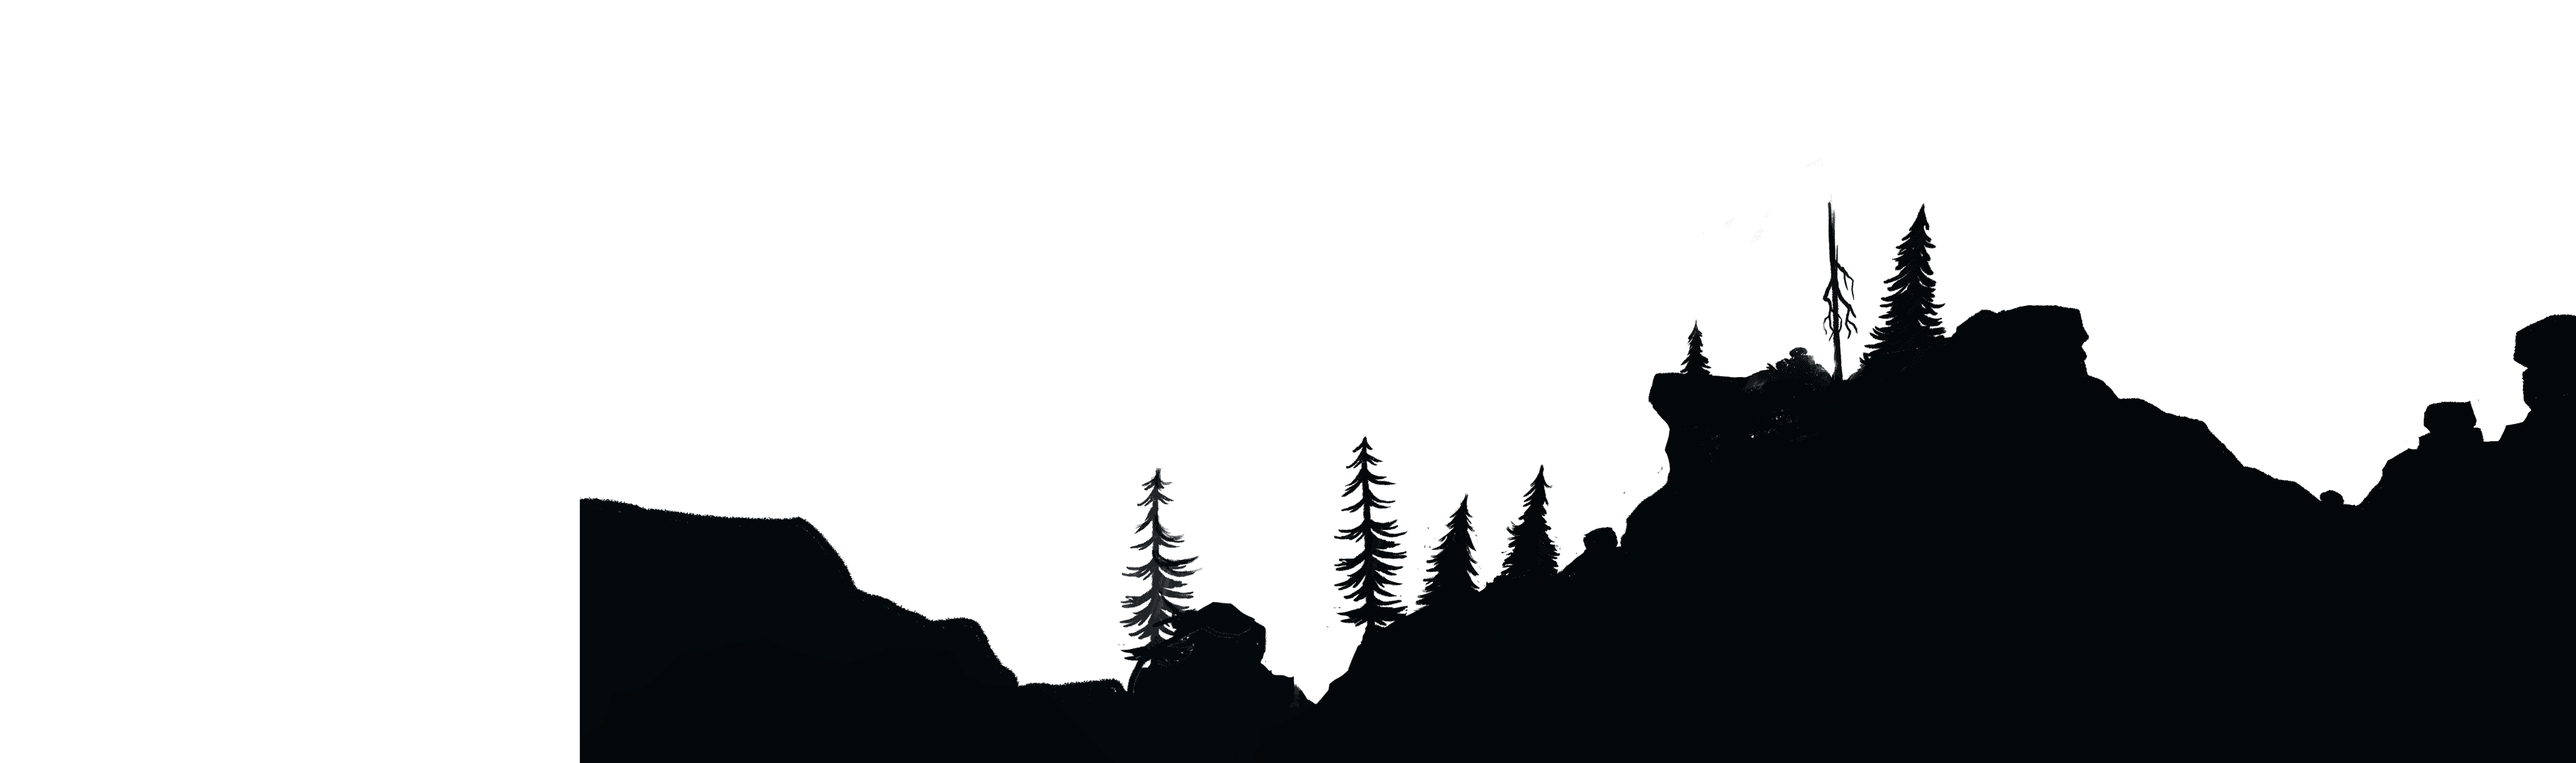
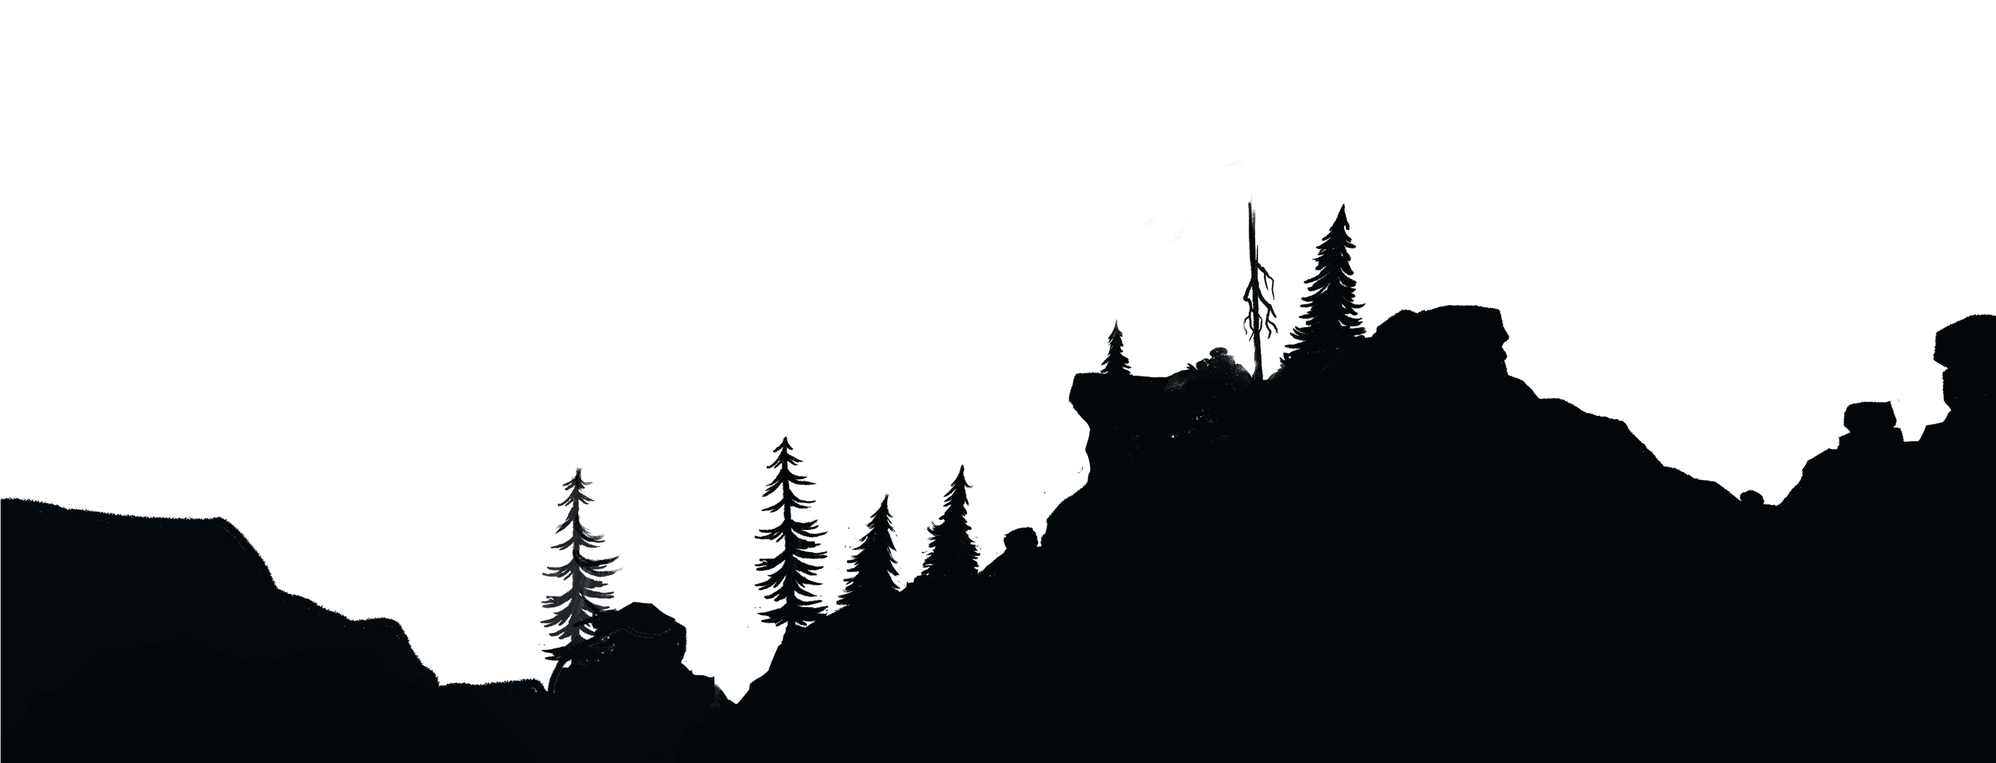
Fixed: Everything

Changed region(s): [[0.0, 0.2775, 0.9908, 1.0]]

diff --git a/src/components/Parallax.vue b/src/components/Parallax.vue
@@ -1,15 +1,18 @@
 <script setup>
-import { ref } from 'vue'
+
+const rotateDegree = [5, -8, -2]
 
 window.addEventListener('scroll', () => {
     const parallax = document.querySelectorAll('.parallax');
+    const newspapers = document.querySelectorAll('.newspaper');
     const speed = 0.5;
     const background = document.getElementById('background');
     const plane = document.getElementById('plane');
     const cooper = document.getElementById('cooper');
     const headline1 = document.getElementById('headline1');
-    const headline2 = document.getElementById('headline2');
-    const test = document.getElementById('test');
+    
+    const news = document.getElementById('news');
+    
     
     background.style.transform = `translateY(-${window.pageYOffset * (speed/3)}px)`;
     headline1.style.transform = `translateY(${window.pageYOffset * 0.1}px)`;
@@ -24,58 +27,79 @@ window.addEventListener('scroll', () => {
         layer.style.transform = `translateY(${distance}px)`;
     })
 
-    
-    if(window.pageYOffset > 350){
-        test.style.height = `${window.pageYOffset - 350}px`;
-        headline2.style.transform = `translateX(-${window.pageYOffset * 0.9}px)`;
-    }else{
-        test.style.height = `0px`;
-    }
+    newspapers.forEach( (newspaper, i) => {
+        const degree = rotateDegree[i] + window.pageYOffset * 0.012;
+        newspaper.style.transform = `rotate(${degree}deg)`;
+    })
 
-    if(window.pageYOffset > 490){
-            headline2.style.bottom = '70px';
-        }else{
-            headline2.style.bottom = 'unset';
-        }
-    
-
-    // test.style.height = `${window.pageYOffset * speed * (6 *-0.2)}px`;
-    // console.log(window.pageYOffset * speed * (6 *-0.2));
+    news.style.marginTop = `calc(${window.pageYOffset * speed * (10 *-0.3)}px + 100px)`;
 })
 </script>
 
 <template>
-    <section class="parallax-hero">
-        <img id="background" ref="background" src="../assets/img/parallax/background.png" alt="">
-        <img id="cooper" src="../assets/img/parallax/cooper.png" alt="">
-        <img id="plane" src="../assets/img/parallax/plane.png" alt="">
-        <h1 id="headline1">Das perfekte Verbrechen</h1>
+    <div class="border" style="overflow: unset;">
+        <section class="parallax-hero">
+            <img id="background" ref="background" src="../assets/img/parallax/background.png" alt="">
+            <img id="cooper" src="../assets/img/parallax/cooper.png" alt="">
+            <img id="plane" src="../assets/img/parallax/plane.png" alt="">
+            <h1 id="headline1">Das perfekte Verbrechen</h1>
 
-        <img src="../assets/img/parallax/parallax/parallax3.png" style="z-index: 2" class="parallax">
-        <img src="../assets/img/parallax/parallax/parallax4.png" style="z-index: 3" class="parallax">
-        <img src="../assets/img/parallax/parallax/parallax5.png" style="z-index: 5" class="parallax">
-        <img src="../assets/img/parallax/parallax/parallax6.png" style="z-index: 6" class="parallax">
-        <div style="z-index: 6" class="test paralax" id="test">
-            <h1 id="headline2">Der unerklärliche Fall des D.B. Cooper</h1>
-        </div>
-    </section>
-    <!-- <div style="z-index: 6" class="paralax overflow">
-            <h1 id="headline2">Der unerklärliche Fall des D.B. Cooper</h1>
-    </div> -->
-   
-    <!-- <section id="helper" style="z-index: 10; position: relative; top: 250px;">
-        <div class="helper">
-           
-        </div>
-    </section> -->
+            <img src="../assets/img/parallax/parallax/parallax3.png" style="z-index: 2" class="parallax">
+            <img src="../assets/img/parallax/parallax/parallax4.png" style="z-index: 3" class="parallax">
+            <img src="../assets/img/parallax/parallax/parallax5.png" style="z-index: 5" class="parallax">
+            <img src="../assets/img/parallax/parallax/parallax6.png" style="z-index: 10; bottom: -20vh" class="parallax">
+            
+        </section>
+    </div>
+        <section id="news" style="position: relative; z-index: 11;">
+            <div style="z-index: 3" class="parallax" id="test">
+                <h1 id="headline2">Der unerklärliche Fall des D.B. Cooper</h1>
+            </div>
+            <div class="newspapers">
+                <img src="../assets/img/newspapers/newspaper1.jpeg" style="left:0px; transform: rotate(8deg);" alt="" class="newspaper">
+                <img src="../assets/img/newspapers/newspaper2.webp" style="right:-40%; transform: rotate(-12deg);" alt="" class="newspaper">
+                <img src="../assets/img/newspapers/newspaper3.jpeg" style="left:0px; transform: rotate(-3deg);" alt="" class="newspaper">
+            </div>
+            <p>
+                Am 24. November 1971 entführte ein Mann namens D.B. Cooper ein Flugzeug von Portland nach Seattle und forderte 200.000 Dollar Lösegeld. Nachdem das Geld übergeben worden war, sprang er aus dem Flugzeug und wurde nie wieder gesehen. 
+            </p>
+            <button class="primary" @click="$emit('isVisible', true)">Entdecke jetzt seine Geschichte</button>
+        </section>
 </template>
 
 <style lang="scss">
+
+#news{
+    background: #030608;
+    padding-top: 150px;
+    padding-bottom: 150px;
+}
+
+.newspapers{
+        max-width: 1200px;
+        margin: 0 auto;
+        padding-bottom: 100px;
+        // padding-top:400px;
+        background: #030608;
+    
+    .newspaper{
+       margin-top: -80px;
+        position: relative;
+        width: 60%;
+        right: 0px;
+        border-radius: 8px;
+        box-shadow: 5px 5px 50px black;
+    }
+}
+.border{
+    height: 100vh;
+}
 .parallax-hero{
     position: relative;
     width: 100vw;
-    height: 100vh;
+    height: 120vh;
     overflow: hidden;
+    background-attachment: fixed;
 
     #headline1{
         position: absolute;
@@ -98,7 +122,7 @@ window.addEventListener('scroll', () => {
         }
         &#cooper{
             right: 20vw;
-            top: 40vh;
+            top: 10vh;
             z-index: 6;
             transform: scale(0.5);
         }
@@ -109,40 +133,55 @@ window.addEventListener('scroll', () => {
         &.parallax{
             width: 100vw;
             height: 100vh;
-            bottom: -25vh;
+            bottom: -10vh;
+            transform-origin: bottom right;
         }
     
     }
 
-    .test{
-        background-color: #030608;
-        height: 0px;
-        width: 100%;
-        position: absolute;
-        bottom: 0px;
-        z-index: 9;
-        overflow: hidden;
+}
 
-        h1{
-            position: absolute;
-            color: $font-color;
-            font-size: calc(100vh*0.07);
-            font-weight: 700;
-            line-height: 80%;
-            right: -700px;
+#headline2{ 
+        padding-top: 40px;
+        color: $font-color;
+        font-size: calc(100vh*0.07);
+        font-weight: 700;
+        line-height: 80%;
+        text-align: center;
+            //right: -700px;
             // top: 10vh;
         }
-    }
+
+// .overflow{
     
+//     //min-height: 140vh;
+//     position: relative;
+
+
+//     .dark-bg{
+//         padding-top: 250px;
+//         background: #030608;
+//         padding-bottom: 200px;
+//     }
+//     #headline2{ 
+//         padding-top: 40px;
+//         color: $font-color;
+//         font-size: calc(100vh*0.07);
+//         font-weight: 700;
+//         line-height: 80%;
+//         text-align: center;
+//             //right: -700px;
+//             // top: 10vh;
+//         }
+// }
+
+.transparent{
+    height: 1px;
+    width: 100%;
+    background: rgba(255, 255, 0, 0.022);
+    z-index: 10;
+    bottom: 0px;
 }
-    // #background{
-    //     top: 0;
-    //     left: 0;
-    //     width: 100vw;
-    //     height: 150vh;
-    //     z-index: -1;
-    //     object-fit: cover;
-    // }
 
 
 #helper{

diff --git a/src/components/Intro.vue b/src/components/Intro.vue
@@ -1,34 +1,43 @@
 <script setup>
 
-window.addEventListener('scroll', () => {
-    const newspapers = document.getElementsByClassName('newspapers');
+// window.addEventListener('scroll', () => {
+//     const newspapers = document.getElementsByClassName('newspapers');
 
-    if(window.pageYOffset > 520){
-        newspapers[0].style.paddingTop = `20px`;
+//     if(window.pageYOffset > 520){
+//         newspapers[0].style.paddingTop = `20px`;
 
-    }else{
-        newspapers[0].style.paddingTop = `800px`;
-    }
+//     }else{
+//         newspapers[0].style.paddingTop = `800px`;
+//     }
 
-    // newspapers.forEach(newspaper => {
-    //     const distance = window.pageYOffset * 0.1 * (newspaper.style.zIndex *-0.3);
-    //     newspaper.style.transform = `translateY(${distance}px)`;
-    // })
-});
+//     // newspapers.forEach(newspaper => {
+//     //     const distance = window.pageYOffset * 0.1 * (newspaper.style.zIndex *-0.3);
+//     //     newspaper.style.transform = `translateY(${distance}px)`;
+//     // })
+// });
+
+//  window.addEventListener('scroll', () => {
+//      const intro = document.getElementById('intro');
+     
+//      const speed = -1.3;
+
+//      intro.style.transform = `translateY(${window.pageYOffset * speed}px)`;
+
+//  });
 
 </script>
 
 <template>
-    <section id="intro">
-   <div class="newspapers">
-            <img v-motion-slide-visible-left src="../assets/img/newspapers/newspaper1.jpeg" style="left:0px;" alt="" class="newspaper">
-            <img v-motion-slide-visible-right src="../assets/img/newspapers/newspaper2.webp" style="right:-40%;" alt="" class="newspaper">
-            <img v-motion-slide-visible-left src="../assets/img/newspapers/newspaper3.jpeg" style="left:0px;" alt="" class="newspaper">
-            <p>
-                Am 24. November 1971 entführte ein Mann namens D.B. Cooper ein Flugzeug von Portland nach Seattle und forderte 200.000 Dollar Lösegeld. Nachdem das Geld übergeben worden war, sprang er aus dem Flugzeug und wurde nie wieder gesehen. 
-            </p>
-            
-            <button class="primary" @click="$emit('isVisible', true)">Entdecke jetzt seine Geschichte</button>
+<section id="intro">
+   <div class="intro-text">
+    <div class="center">
+
+        <p>
+            Am 24. November 1971 entführte ein Mann namens D.B. Cooper ein Flugzeug von Portland nach Seattle und forderte 200.000 Dollar Lösegeld. Nachdem das Geld übergeben worden war, sprang er aus dem Flugzeug und wurde nie wieder gesehen. 
+        </p>
+        
+        <button class="primary" @click="$emit('isVisible', true)">Entdecke jetzt seine Geschichte</button>
+    </div>
         </div> 
     </section>
 </template>
@@ -36,28 +45,24 @@ window.addEventListener('scroll', () => {
 <style lang="scss">
 
 section#intro{
-    background: linear-gradient(0deg, rgba(29,29,29,1) 80%, rgba(3,6,8,1) 100%);
-    z-index: 10;
-    padding-bottom: 90px;
+    background: red;
+    height: 450px;
+    //background: linear-gradient(0deg, rgba(29,29,29,1) 80%, rgba(3,6,8,1) 100%);
+    z-index: 90;
+    width: 100%;
+    position: relative;
+    // padding-bottom: 200px;
+    //bottom: -900px;
 
-    // top: 400px;
-
-    .newspapers{
-        max-width: 1200px;
-        margin: 0 auto;
-        padding-top:400px;
-   
-    .newspaper{
-        position: relative;
-        width: 60%;
-        right: 0px;
-        border-radius: 8px;
-        margin-top: -200px
+    .intro-text{
+        width: 100%;
+        position: absolute;
+        bottom: 0px;
+        padding-bottom: 70px;
+    
+        p{
+            text-align: center;
+        }
     }
-
-    p{
-        margin-top: 90px;
-    }
-}
 }
 </style>

diff --git a/src/App.vue b/src/App.vue
@@ -15,9 +15,9 @@ function startStory(){
 </script>
 
 <template>
-    <Parallax/>
-    <Intro @isVisible="startStory()"/>
-    <!-- <One v-show="isVisible" /> -->
+    <Parallax @isVisible="startStory()"/>
+    <!-- <Intro @isVisible="startStory()"/> -->
+    <One v-show="isVisible" />
 </template>
 
 <style scoped>

diff --git a/index.html b/index.html
@@ -4,7 +4,7 @@
     <meta charset="UTF-8" />
     <link rel="icon" type="image/svg+xml" href="/dbcooper.ico" />
     <meta name="viewport" content="width=device-width, initial-scale=1.0" />
-    <title>Vite + Vue</title>
+    <title>DB Cooper</title>
   </head>
   <body>
     <div id="app"></div>

diff --git a/src/components/One.vue b/src/components/One.vue
@@ -1,7 +1,7 @@
 <template>
     <div>
 
-        <section id="start">
+        <section id="start" style="z-index: 300 position: relative;">
                 <span>HELLO
                 WELCOME</span>
                 <img src="../assets/img/newspapers/newspaper1.jpeg" alt="">

diff --git a/src/style.css b/src/style.css
@@ -22,7 +22,7 @@ button.primary{
   font-family: 'Roboto', sans-serif;
   cursor: pointer;
   transition: 0.3s;
-  margin: 20px 0;
+  margin: 20px auto;
 }
 button.primary:hover{
   background-color: #BDFCFF80;
